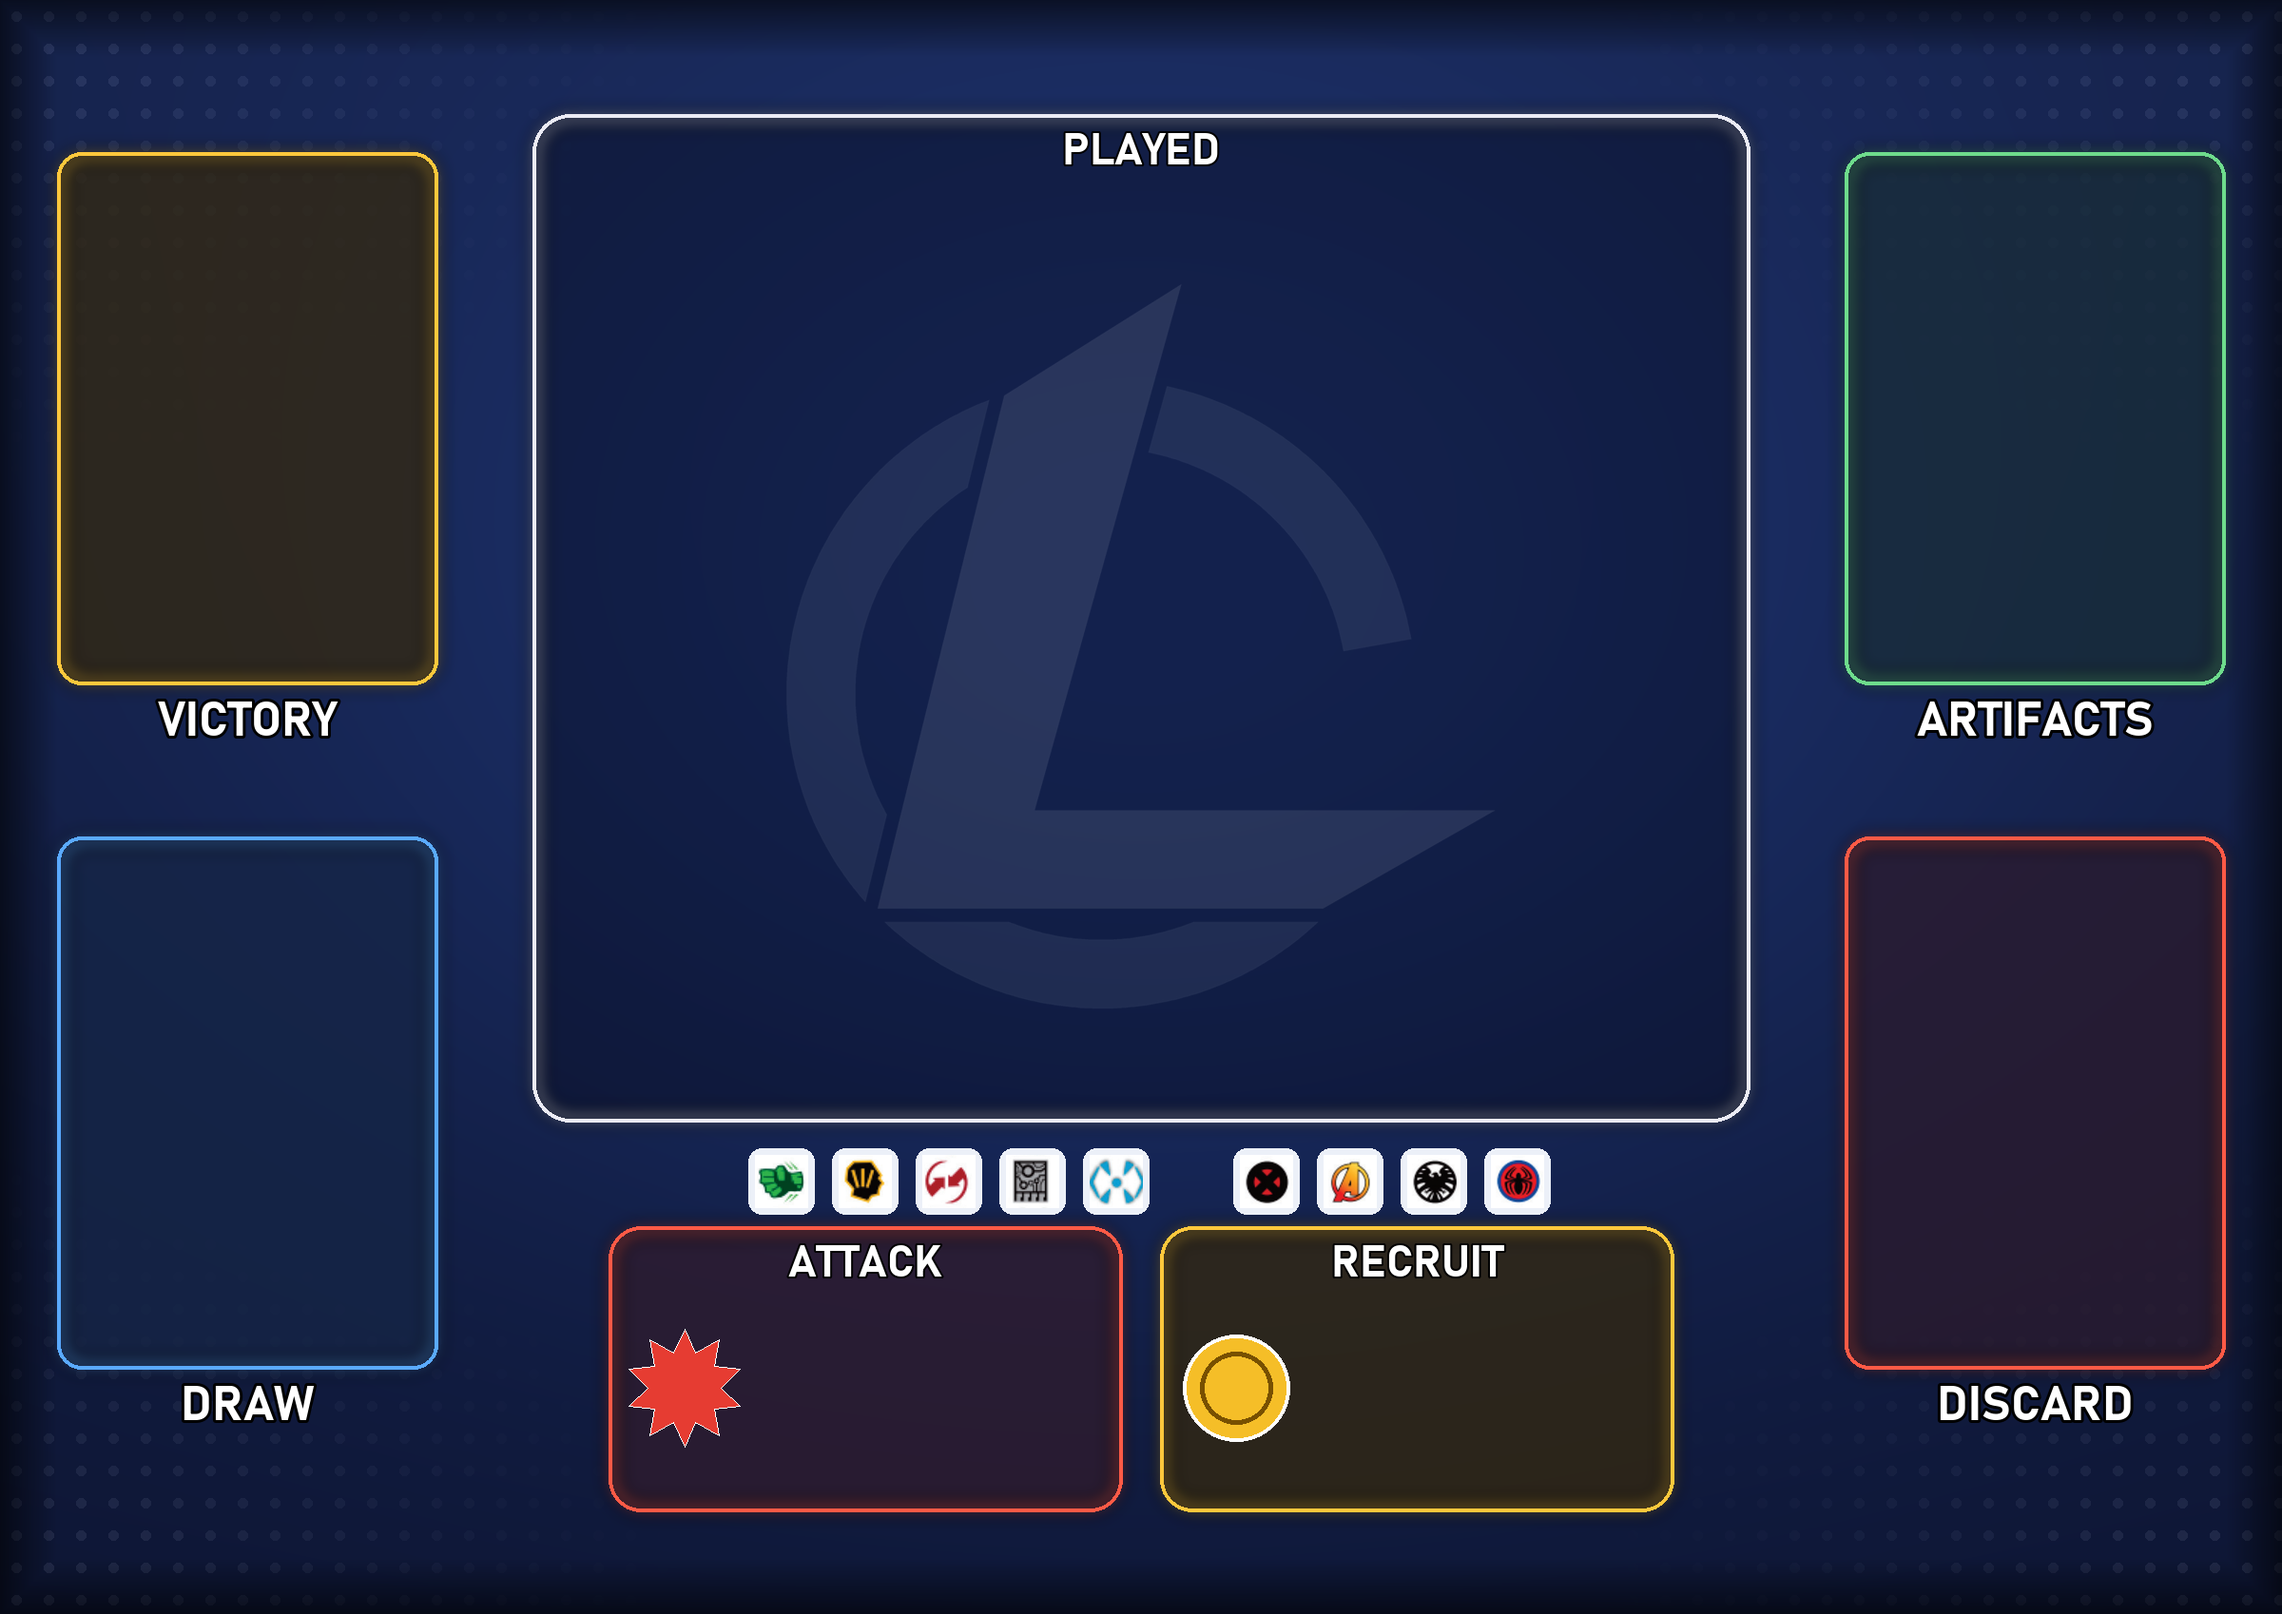
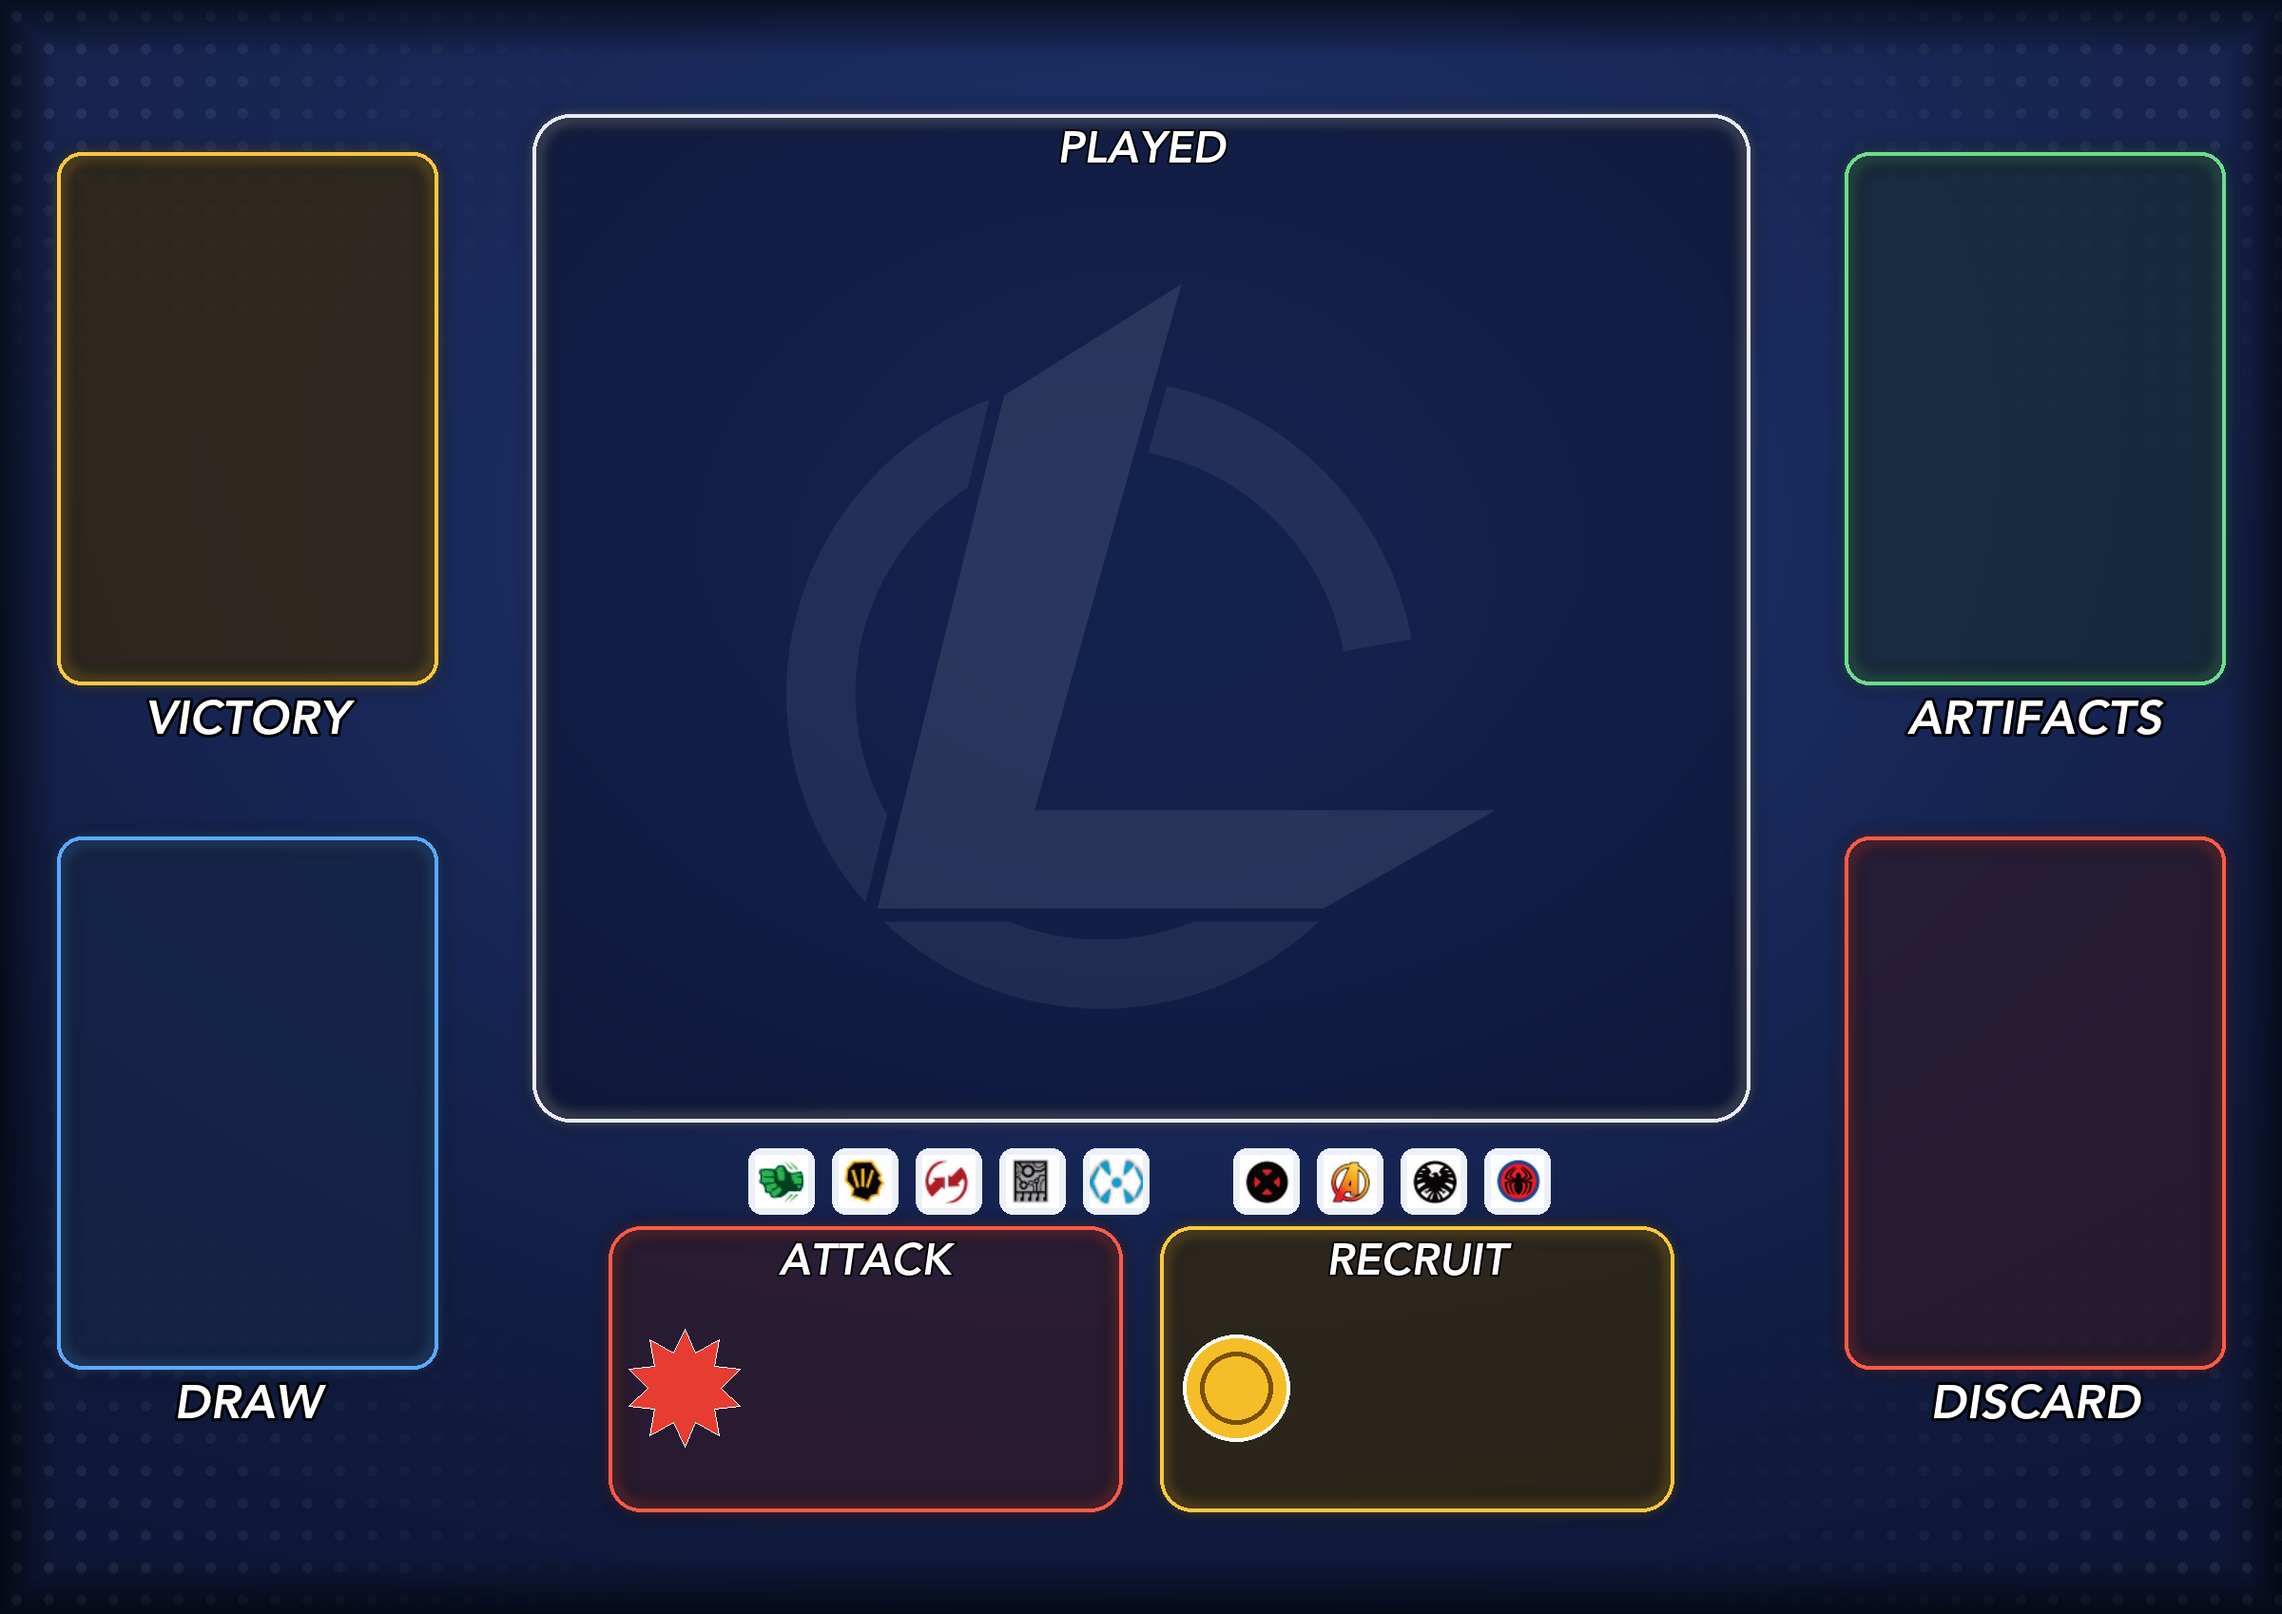
Player mat v2: Avenir Heavy Oblique labels (Bahnschrift fallback)

diff --git a/mods/legendary-marvel/scripts/make_player_mat_v2.py b/mods/legendary-marvel/scripts/make_player_mat_v2.py
@@ -15,13 +15,18 @@ a = ap.parse_args()
 
 W, H = 2400, 1698
 CARD_W, CARD_H = 400, 560            # slot frame, about one card (2.2 x 3.1 world units at the saved scale)
-FONT = r'C:\Windows\Fonts\bahnschrift.ttf'
+# label font: Avenir Heavy Oblique (its slant echoes the Legendary logo); falls back to Bahnschrift if it is not installed
+FONT_DIRS = [r'C:\Windows\Fonts', os.path.expandvars(r'%LOCALAPPDATA%\Microsoft\Windows\Fonts')]
+FONT_FILES = ['AvenirLTProHeavyOblique.otf', 'bahnschrift.ttf']
+FONT = next((os.path.join(d, f) for f in FONT_FILES for d in FONT_DIRS if os.path.exists(os.path.join(d, f))), None)
+if FONT is None: sys.exit('no label font found: install Avenir LT Pro or keep bahnschrift.ttf')
 
 
 def font(sz):
     f = ImageFont.truetype(FONT, sz)
-    try: f.set_variation_by_name('Bold')
-    except Exception: pass
+    if FONT.lower().endswith('bahnschrift.ttf'):
+        try: f.set_variation_by_name('Bold')
+        except Exception: pass
     return f
 
 
